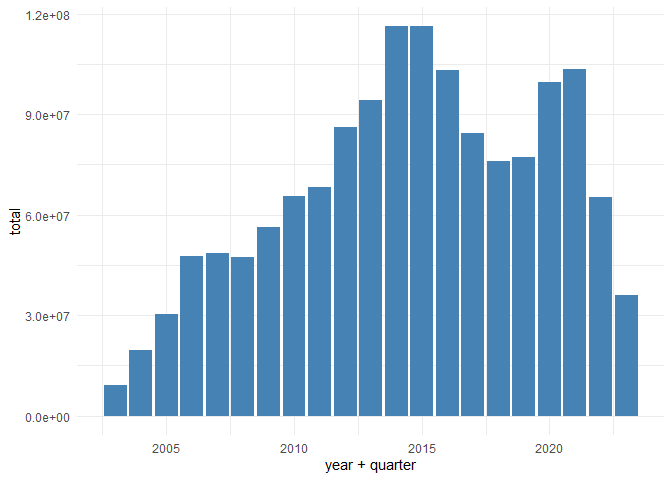
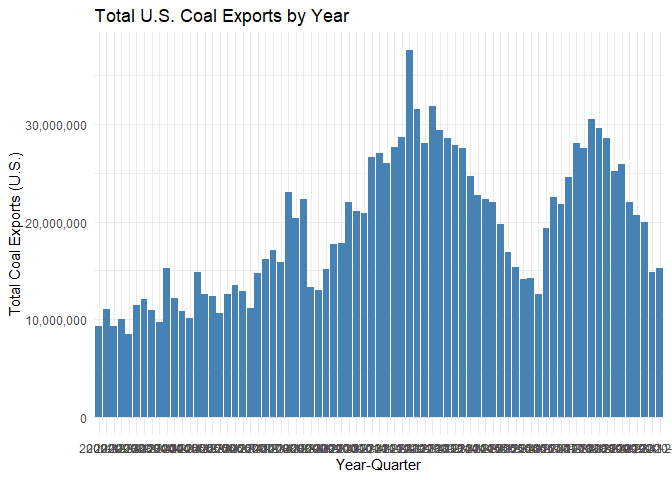
Worked on problem 3. Added year and quarter aggregation and summed the total exports for them. Included code to convert string into date. And worked on figure 2 a bit, but still not finished.

diff --git a/R/coal.html b/R/coal.html
@@ -431,31 +431,42 @@ div.tocify {
 </div>
 <div id="total-us-coal-exports-over-time-year-and-quarter" class="section level2">
 <h2>3) Total US coal exports over time (year AND quarter)</h2>
-<div class="sourceCode" id="cb12"><pre class="sourceCode r"><code class="sourceCode r"><span id="cb12-1"><a href="#cb12-1" aria-hidden="true" tabindex="-1"></a>coal_clean <span class="sc">%&gt;%</span> </span>
-<span id="cb12-2"><a href="#cb12-2" aria-hidden="true" tabindex="-1"></a>  <span class="co">#filter(coal_origin_county = &quot;United States&quot;)</span></span>
-<span id="cb12-3"><a href="#cb12-3" aria-hidden="true" tabindex="-1"></a>  <span class="fu">group_by</span>(year, quarter) <span class="sc">%&gt;%</span></span>
-<span id="cb12-4"><a href="#cb12-4" aria-hidden="true" tabindex="-1"></a>  <span class="fu">summarise</span>(<span class="fu">sum</span>(total, <span class="at">na.rm =</span> T))  </span></code></pre></div>
-<pre><code>## # A tibble: 75 x 3
-## # Groups:   year [19]
-##     year quarter `sum(total, na.rm = T)`
-##    &lt;dbl&gt;   &lt;dbl&gt;                   &lt;dbl&gt;
-##  1  2002       1                 9252584
-##  2  2002       2                11042519
-##  3  2002       3                 9256554
-##  4  2002       4                10049584
-##  5  2003       1                 8517778
-##  6  2003       2                11449798
-##  7  2003       3                12093944
-##  8  2003       4                10951988
-##  9  2004       1                 9688063
-## 10  2004       2                15255342
+<div class="sourceCode" id="cb12"><pre class="sourceCode r"><code class="sourceCode r"><span id="cb12-1"><a href="#cb12-1" aria-hidden="true" tabindex="-1"></a><span class="co">#Aggregate quarter year </span></span>
+<span id="cb12-2"><a href="#cb12-2" aria-hidden="true" tabindex="-1"></a>coal_clean2 <span class="ot">&lt;-</span> coal_clean <span class="sc">%&gt;%</span> <span class="fu">unite</span>(date, <span class="fu">c</span>(<span class="st">&quot;year&quot;</span>, <span class="st">&quot;quarter&quot;</span>), <span class="at">sep =</span> <span class="st">&quot;-&quot;</span>)</span>
+<span id="cb12-3"><a href="#cb12-3" aria-hidden="true" tabindex="-1"></a></span>
+<span id="cb12-4"><a href="#cb12-4" aria-hidden="true" tabindex="-1"></a><span class="co">#sum total exports for each year and their respective quarter</span></span>
+<span id="cb12-5"><a href="#cb12-5" aria-hidden="true" tabindex="-1"></a>coal_clean2 <span class="sc">%&gt;%</span> </span>
+<span id="cb12-6"><a href="#cb12-6" aria-hidden="true" tabindex="-1"></a>  <span class="co">#filter(coal_origin_county = &quot;United States&quot;)</span></span>
+<span id="cb12-7"><a href="#cb12-7" aria-hidden="true" tabindex="-1"></a>  <span class="fu">group_by</span>(date) <span class="sc">%&gt;%</span></span>
+<span id="cb12-8"><a href="#cb12-8" aria-hidden="true" tabindex="-1"></a>  <span class="fu">summarise</span>(<span class="fu">sum</span>(total, <span class="at">na.rm =</span> T))  </span></code></pre></div>
+<pre><code>## # A tibble: 75 x 2
+##    date   `sum(total, na.rm = T)`
+##    &lt;chr&gt;                    &lt;dbl&gt;
+##  1 2002-1                 9252584
+##  2 2002-2                11042519
+##  3 2002-3                 9256554
+##  4 2002-4                10049584
+##  5 2003-1                 8517778
+##  6 2003-2                11449798
+##  7 2003-3                12093944
+##  8 2003-4                10951988
+##  9 2004-1                 9688063
+## 10 2004-2                15255342
 ## # ... with 65 more rows</code></pre>
-<div class="sourceCode" id="cb14"><pre class="sourceCode r"><code class="sourceCode r"><span id="cb14-1"><a href="#cb14-1" aria-hidden="true" tabindex="-1"></a>plot2<span class="ot">&lt;-</span><span class="fu">ggplot</span>(<span class="at">data=</span>coal_clean, <span class="fu">aes</span>(<span class="at">x=</span>year <span class="sc">+</span> quarter, <span class="at">y=</span>total)) <span class="sc">+</span></span>
-<span id="cb14-2"><a href="#cb14-2" aria-hidden="true" tabindex="-1"></a>  <span class="fu">geom_bar</span>(<span class="at">stat=</span><span class="st">&quot;identity&quot;</span>, <span class="at">fill=</span><span class="st">&quot;steelblue&quot;</span>)<span class="sc">+</span></span>
-<span id="cb14-3"><a href="#cb14-3" aria-hidden="true" tabindex="-1"></a>  <span class="fu">theme_minimal</span>()</span>
-<span id="cb14-4"><a href="#cb14-4" aria-hidden="true" tabindex="-1"></a>plot2</span></code></pre></div>
+<div class="sourceCode" id="cb14"><pre class="sourceCode r"><code class="sourceCode r"><span id="cb14-1"><a href="#cb14-1" aria-hidden="true" tabindex="-1"></a><span class="co">#convert string to date ~ two potential solutions:lubridate and zoo</span></span>
+<span id="cb14-2"><a href="#cb14-2" aria-hidden="true" tabindex="-1"></a><span class="co">#if (!require(&quot;lubridate&quot;)) install.packages(&quot;lubridate&quot;)</span></span>
+<span id="cb14-3"><a href="#cb14-3" aria-hidden="true" tabindex="-1"></a><span class="co">#library(lubridate)</span></span>
+<span id="cb14-4"><a href="#cb14-4" aria-hidden="true" tabindex="-1"></a></span>
+<span id="cb14-5"><a href="#cb14-5" aria-hidden="true" tabindex="-1"></a><span class="co">#if (!require(&quot;zoo&quot;)) install.packages(&quot;zoo&quot;)</span></span>
+<span id="cb14-6"><a href="#cb14-6" aria-hidden="true" tabindex="-1"></a><span class="co">#library(zoo)</span></span>
+<span id="cb14-7"><a href="#cb14-7" aria-hidden="true" tabindex="-1"></a><span class="co">#coal_clean2$year_quarter = as.yearqtr(coal_clean$date,format=&quot;%Yq%q&quot;)</span></span>
+<span id="cb14-8"><a href="#cb14-8" aria-hidden="true" tabindex="-1"></a></span>
+<span id="cb14-9"><a href="#cb14-9" aria-hidden="true" tabindex="-1"></a>plot2<span class="ot">&lt;-</span><span class="fu">ggplot</span>(<span class="at">data=</span>coal_clean2, <span class="fu">aes</span>(<span class="at">x=</span>date, <span class="at">y=</span>total)) <span class="sc">+</span></span>
+<span id="cb14-10"><a href="#cb14-10" aria-hidden="true" tabindex="-1"></a>  <span class="fu">geom_bar</span>(<span class="at">stat=</span><span class="st">&quot;identity&quot;</span>, <span class="at">fill=</span><span class="st">&quot;steelblue&quot;</span>) <span class="sc">+</span></span>
+<span id="cb14-11"><a href="#cb14-11" aria-hidden="true" tabindex="-1"></a>  <span class="fu">theme_minimal</span>() <span class="sc">+</span> <span class="fu">scale_y_continuous</span>(<span class="at">labels =</span> scales<span class="sc">::</span>comma) <span class="sc">+</span> <span class="fu">labs</span>(<span class="at">title =</span> <span class="st">&quot;Total U.S. Coal Exports by Year&quot;</span>, <span class="at">x =</span> <span class="st">&quot;Year-Quarter&quot;</span>, <span class="at">y =</span> <span class="st">&quot;Total Coal Exports (U.S.)&quot;</span>)</span>
+<span id="cb14-12"><a href="#cb14-12" aria-hidden="true" tabindex="-1"></a>plot2</span></code></pre></div>
 <pre><code>## Warning: Removed 1139 rows containing missing values (position_stack).</code></pre>
[2 lines of base64/hex data omitted]
 <p>Now do the same as the above, expect aggregated quarter of year (2001Q1, 2002Q2, etc.). Do you notice any seasonality that was masked from the yearly averages?</p>
 <p><em>Hint: ggplot2 is going to want you to convert your quarterly data into actual date format before it plots nicely. (i.e. Don’t leave it as a string.)</em></p>
 </div>

diff --git a/R/coal.md b/R/coal.md
@@ -168,34 +168,45 @@ plot
 
 
 ```r
-coal_clean %>% 
+#Aggregate quarter year 
+coal_clean2 <- coal_clean %>% unite(date, c("year", "quarter"), sep = "-")
+
+#sum total exports for each year and their respective quarter
+coal_clean2 %>% 
   #filter(coal_origin_county = "United States")
-  group_by(year, quarter) %>%
+  group_by(date) %>%
   summarise(sum(total, na.rm = T))  
 ```
 
 ```
-## # A tibble: 75 x 3
-## # Groups:   year [19]
-##     year quarter `sum(total, na.rm = T)`
-##    <dbl>   <dbl>                   <dbl>
-##  1  2002       1                 9252584
-##  2  2002       2                11042519
-##  3  2002       3                 9256554
-##  4  2002       4                10049584
-##  5  2003       1                 8517778
-##  6  2003       2                11449798
-##  7  2003       3                12093944
-##  8  2003       4                10951988
-##  9  2004       1                 9688063
-## 10  2004       2                15255342
+## # A tibble: 75 x 2
+##    date   `sum(total, na.rm = T)`
+##    <chr>                    <dbl>
+##  1 2002-1                 9252584
+##  2 2002-2                11042519
+##  3 2002-3                 9256554
+##  4 2002-4                10049584
+##  5 2003-1                 8517778
+##  6 2003-2                11449798
+##  7 2003-3                12093944
+##  8 2003-4                10951988
+##  9 2004-1                 9688063
+## 10 2004-2                15255342
 ## # ... with 65 more rows
 ```
 
 ```r
-plot2<-ggplot(data=coal_clean, aes(x=year + quarter, y=total)) +
-  geom_bar(stat="identity", fill="steelblue")+
-  theme_minimal()
+#convert string to date ~ two potential solutions:lubridate and zoo
+#if (!require("lubridate")) install.packages("lubridate")
+#library(lubridate)
+
+#if (!require("zoo")) install.packages("zoo")
+#library(zoo)
+#coal_clean2$year_quarter = as.yearqtr(coal_clean$date,format="%Yq%q")
+
+plot2<-ggplot(data=coal_clean2, aes(x=date, y=total)) +
+  geom_bar(stat="identity", fill="steelblue") +
+  theme_minimal() + scale_y_continuous(labels = scales::comma) + labs(title = "Total U.S. Coal Exports by Year", x = "Year-Quarter", y = "Total Coal Exports (U.S.)")
 plot2
 ```
 
